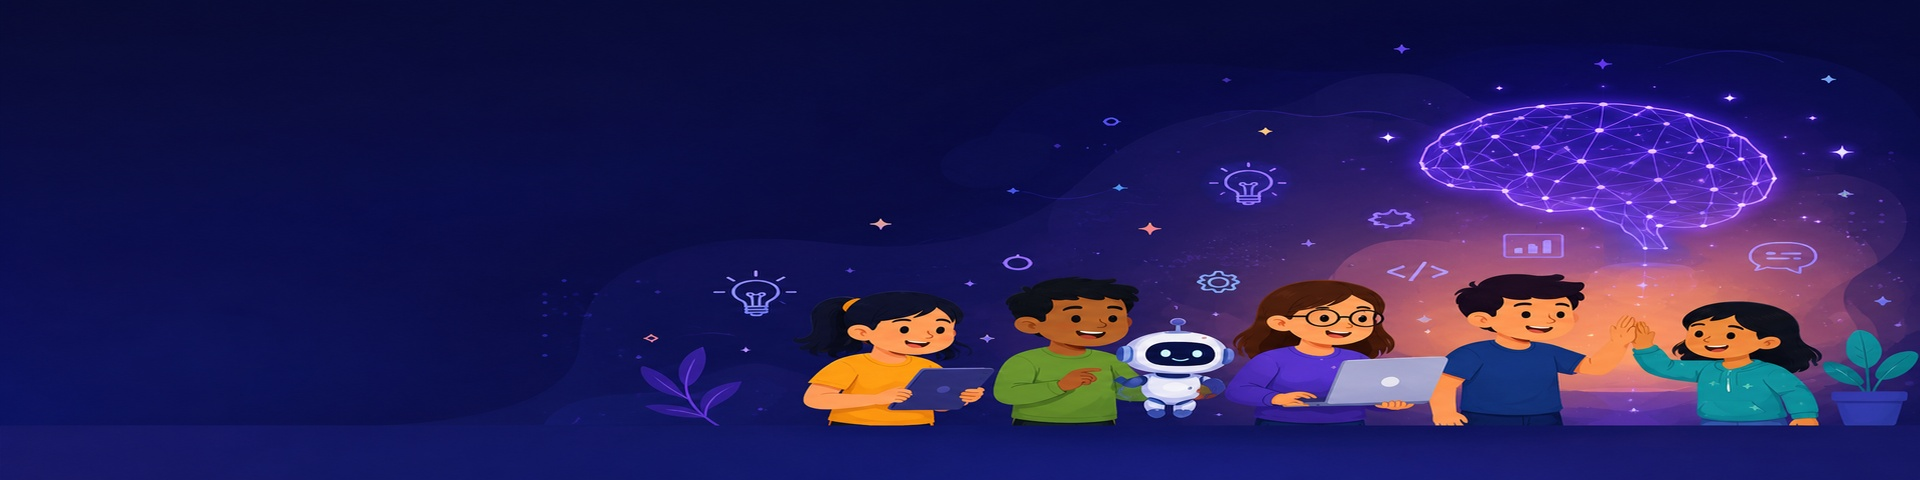
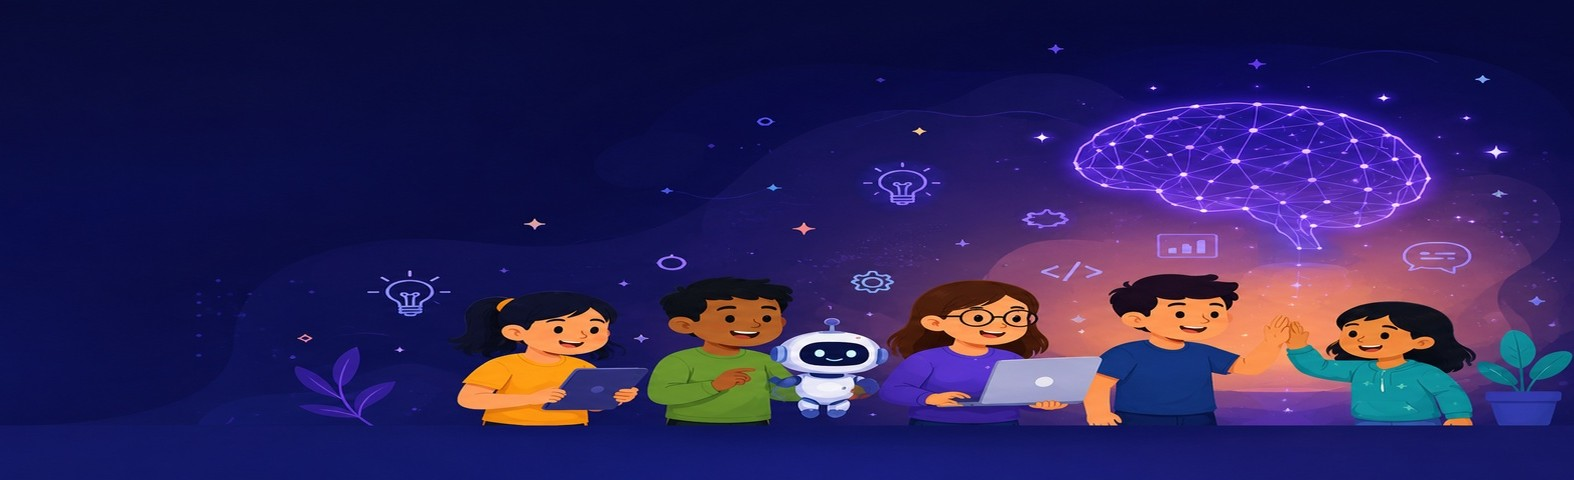
change

diff --git a/css/style.css b/css/style.css
@@ -181,11 +181,11 @@ h2.section-h2{font-family:'Fraunces',serif;font-weight:600;font-size:42px;line-h
 /* ---------- BANNER ---------- */
 .banner{background:var(--navy);padding:0 0 100px;}
 .banner-inner{max-width:var(--maxw);margin:0 auto;padding:0 40px;}
-.banner-art{ position:relative;border-radius:var(--radius-lg);overflow:hidden; height:340px; background-image:linear-gradient(
+.banner-art{ position:relative;border-radius:var(--radius-lg);overflow:hidden; aspect-ratio: 4 / 1; background-image:linear-gradient(
       90deg,
       rgba(10, 18, 45, 0.82) 0%,
       rgba(10, 18, 45, 0.55) 45%,
-      rgba(10, 18, 45, 0.10) 100%),url("banner-image(1).png");background-size: cover; background-position: center;}
+      rgba(10, 18, 45, 0.10) 100%),url("banner-image.jpg");background-size: cover; background-position: center;}
 .banner-art .overlay-text{
   position:absolute;left:32px;bottom:28px;color:#fff;
   font-family:'Fraunces',serif;font-size:30px;font-weight:600;
